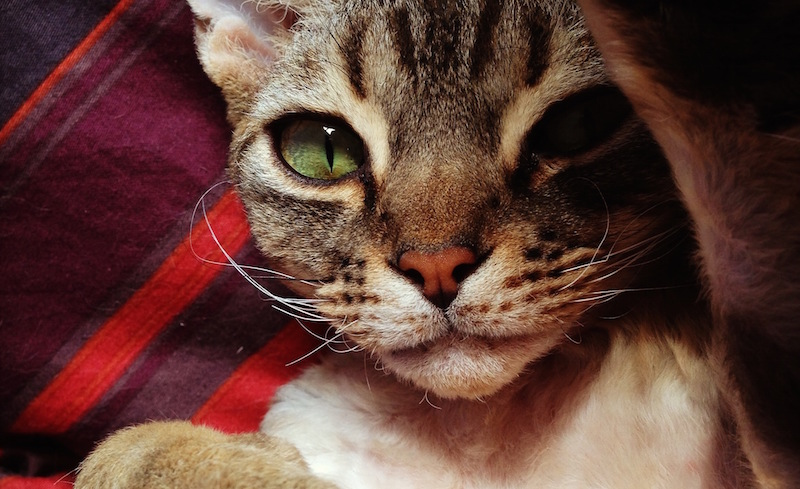
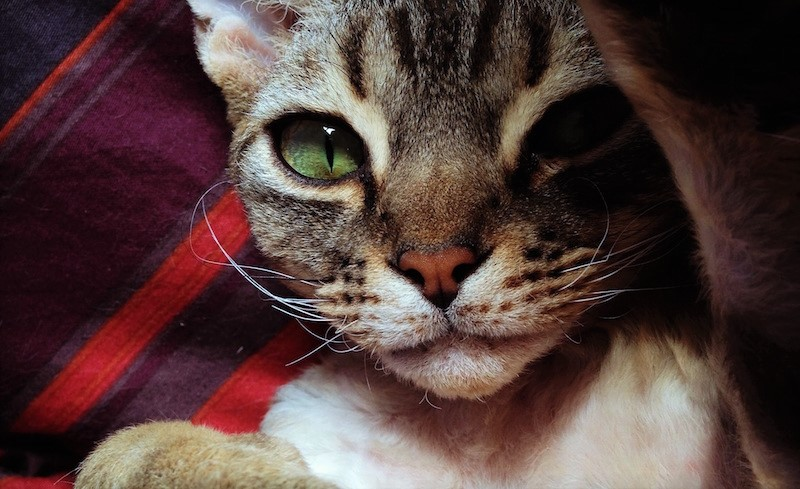
Added a cat photo to the main page

diff --git a/index.html b/index.html
@@ -20,7 +20,9 @@ layout: default
     <h2>JavaScript</h2>
     <p>Can add cool effects to otherwise boring pages.</p>
   </div>
-</div>  
+</div>
+
+A wesbite also needs cat photos.
 
 <img src="/images/cat.jpg"/>
 
